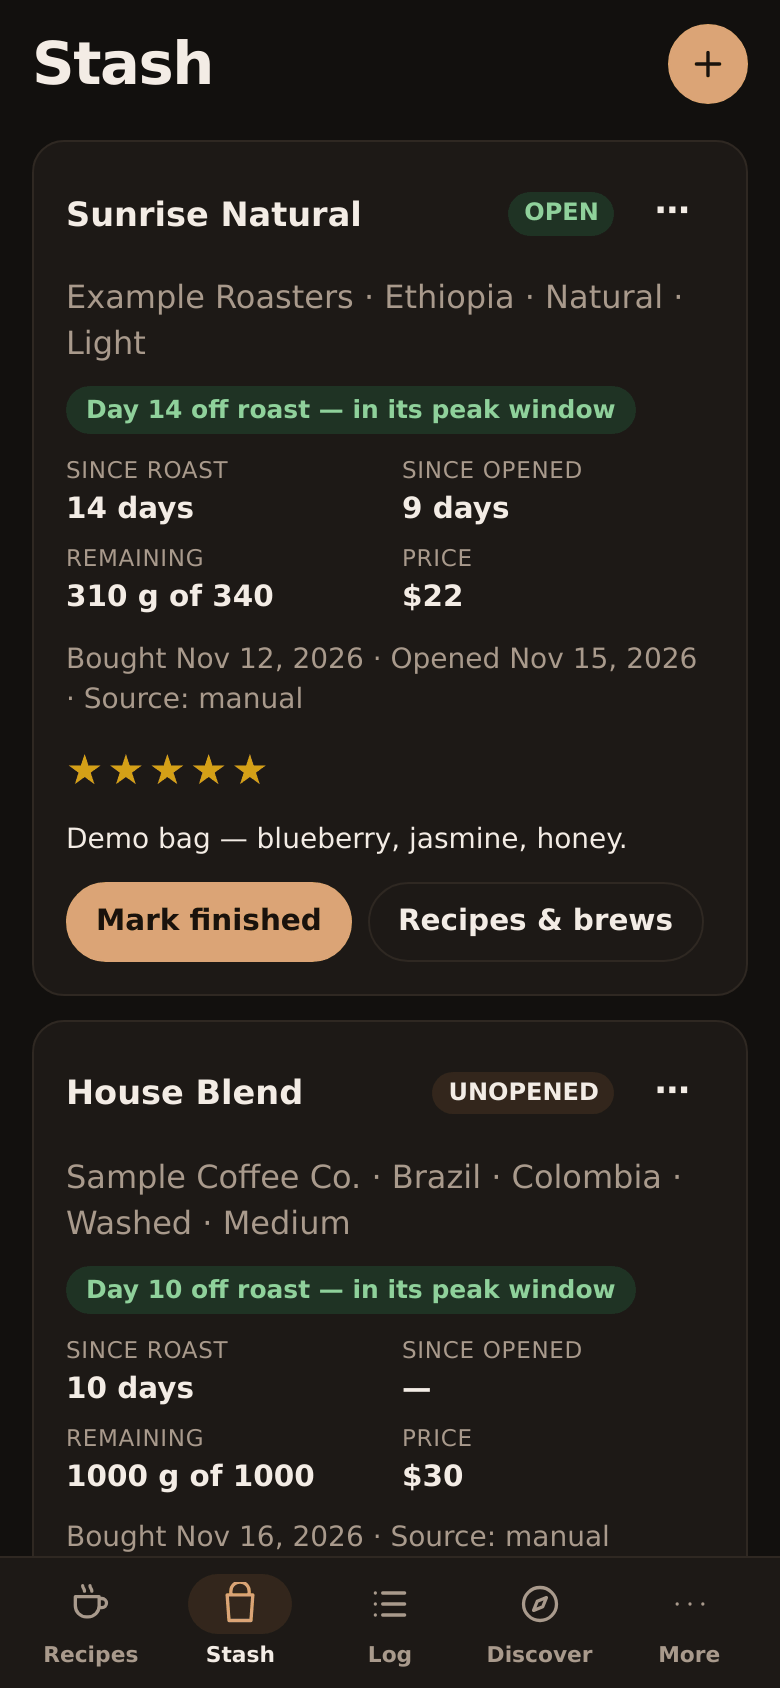
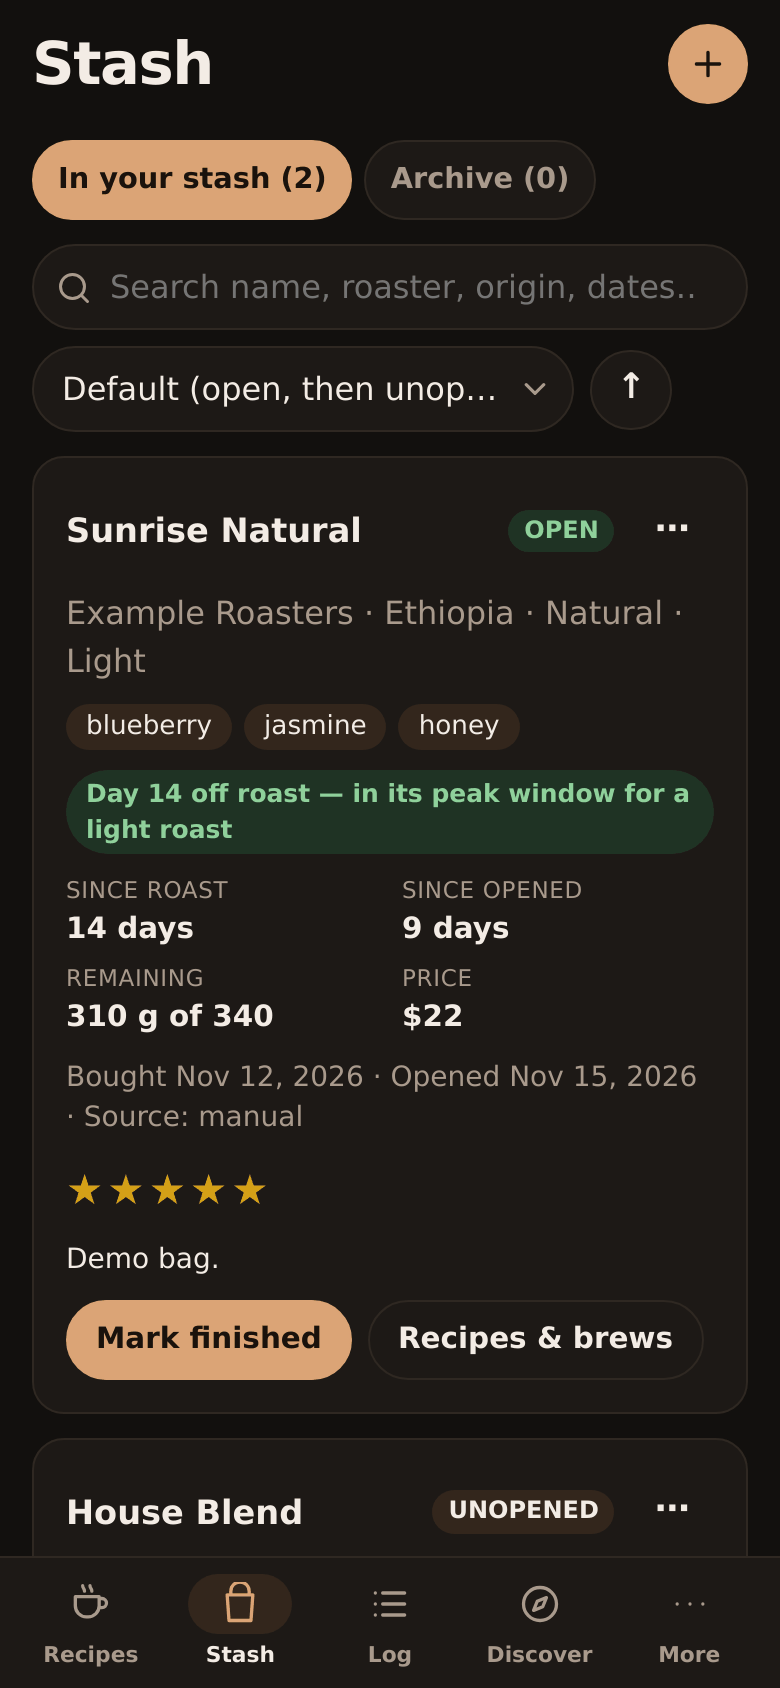
Brewlab 0.3.0
Version bump and release prep for the changes in 4d32f6b (Stash archive, sort and search; bag
lists and tasting-note tags; rest windows per roast level; tag-based Discover preferences; setup
Select all / Deselect all and Reset preferences). Demo bags get tasting-note tags; README Stash
screenshot refreshed.

Claude-Session: https://claude.ai/code/session_0144F8jUJT8yeoo5sCG2Jas8

Changed region(s): [[0.0308, 0.0616, 0.9231, 0.9242], [0.4923, 0.6777, 0.6154, 0.7085], [0.8, 0.6161, 0.8923, 0.6469]]

diff --git a/CHANGELOG.md b/CHANGELOG.md
@@ -1,6 +1,6 @@
 # Changelog
 
-## Unreleased
+## 0.3.0
 
 - **Stash archive:** a finished bag leaves the Stash and moves to its Archive (newest first), with its brews and tasting notes kept. *Back to stash* undoes a finish.
 - **Sort and search the Stash and its Archive:** sort by name, roaster, origin, process, roast / purchase / opened / finished date, rating, price or coffee left, and flip the direction with one tap. Bags missing that value go last either way. Each tab remembers its sort on the device. Search matches every word against the name, roaster, origin, process, roast level, notes, dates ("2026-10", "october", "Nov 4"), rating ("5★") and price ("$18").
